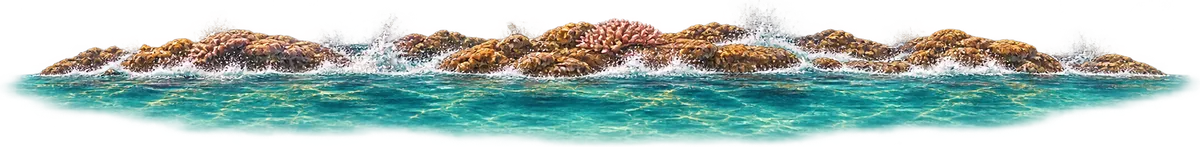
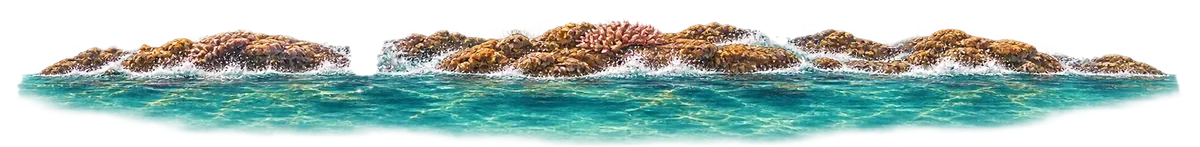
Проба «Штурман»: без видео-бурунов, стёрты застывшие брызги, настоящий лабиринт (3 пути, 2 перемычки, 6 тупиков, сплошные стенки), ускорена отрисовка
Claude-Session: https://claude.ai/code/session_01VuMVZraN9pECkX9mC81Yi9

diff --git a/helm.html b/helm.html
@@ -190,19 +190,20 @@ for(const k in SPR){const im=new Image();im.onload=()=>Object.assign(SPR[k],soft
 
 /* уровень: сплошное поле рифов, через него идут три фарватера (западный — длинный, средний — с узостью, восточный — выходит в средний) и два тупика */
 const CH=[
-  {w:18,p:[[0,-20],[-40,120],[-120,220],[-110,360],[-180,480],[-160,620],[-90,740],[-110,880],[-40,1070]]},          // западный путь
-  {w:18,p:[[0,-20],[50,130],[130,230],[120,380],[40,470],[60,600],[150,700],[110,850],[10,930],[-40,1070]],narrow:[430,505,13]}, // восточный путь с узостью
-  {w:16,p:[[-110,360],[-30,420],[40,470]]},                       // перемычка между путями
-  {w:17,p:[[-40,120],[-200,160],[-300,230]]},                     // тупики, похожие на короткий путь
-  {w:17,p:[[130,230],[260,300],[320,420]]},
-  {w:17,p:[[-160,620],[-300,700]]},
-  {w:16,p:[[60,600],[-30,650]]},
-  {w:17,p:[[150,700],[280,790],[300,900]]},
-  {w:16,p:[[-90,740],[10,800]]},
+  {w:16,p:[[0,-20],[-50,100],[-170,190],[-260,320],[-250,470],[-300,600],[-230,740],[-150,860],[-70,980],[-40,1070]],narrow:[455,525,12.5]},   // западный путь
+  {w:16,p:[[0,-20],[30,120],[0,250],[-70,360],[-40,500],[30,620],[0,760],[-60,880],[-40,1070]],narrow:[700,780,12.5]},                       // средний путь
+  {w:16,p:[[30,120],[140,200],[250,330],[300,480],[220,620],[260,760],[180,880],[60,960],[-40,1070]],narrow:[465,535,12.5]},                  // восточный путь
+  {w:16,p:[[-70,360],[-160,420],[-250,470]]},          // перемычки между путями
+  {w:16,p:[[30,620],[130,600],[220,620]]},
+  {w:16,p:[[-170,190],[-320,170],[-400,230]]},         // тупики
+  {w:16,p:[[0,250],[90,300],[130,400]]},
+  {w:16,p:[[-300,600],[-420,640]]},
+  {w:16,p:[[260,760],[400,800],[440,900]]},
+  {w:16,p:[[-150,860],[-260,930],[-330,1000]]},
+  {w:16,p:[[250,330],[380,300],[450,360]]},
 ];
-const CHECK=[{x:50,z:470,r:28,t:'Прошли узость!'},{x:-40,z:1000,r:40,t:'Устье близко!'},
-  {x:-300,z:230,r:30,t:'Тупик! Разворачивайся.',bad:1},{x:320,z:420,r:30,t:'Тупик! Разворачивайся.',bad:1},{x:-300,z:700,r:30,t:'Тупик! Разворачивайся.',bad:1},
-  {x:-30,z:650,r:26,t:'Тупик! Разворачивайся.',bad:1},{x:300,z:900,r:30,t:'Тупик! Разворачивайся.',bad:1},{x:10,z:800,r:26,t:'Тупик! Разворачивайся.',bad:1}];
+const CHECK=[{x:-255,z:490,r:26,t:'Прошли узость!'},{x:5,z:740,r:26,t:'Прошли узость!'},{x:295,z:500,r:26,t:'Прошли узость!'},{x:-40,z:1010,r:40,t:'Устье близко!'},
+  ...[[-400,230],[130,400],[-420,640],[440,900],[-330,1000],[450,360]].map(([x,z])=>({x,z,r:28,t:'Тупик! Разворачивайся.',bad:1}))];
 function segDist(x,z,a,b){const dx=b[0]-a[0],dz=b[1]-a[1],L=dx*dx+dz*dz;let t=((x-a[0])*dx+(z-a[1])*dz)/L;t=Math.max(0,Math.min(1,t));return Math.hypot(x-a[0]-t*dx,z-a[1]-t*dz);}
 function chanClear(x,z){ // сколько метров от точки до края ближайшего фарватера (минус — внутри)
   let m=1e9;for(const c of CH){let hw=c.w;if(c.narrow&&z>c.narrow[0]&&z<c.narrow[1])hw=c.narrow[2];
@@ -220,12 +221,24 @@ function reset(){
     let size=Math.min(rnd(82,118),room*2/.86*.98); if(size<28)continue;
     let type=TYPES[Math.floor(Math.random()*TYPES.length)];
     if(size<45&&type!=='shoal')type='reef-heads';
-    if(room<45&&size>=40&&gz>0&&Math.random()<.1)type='reef-break'; // живой бурун — изредка у самого фарватера, чтобы видеть его вблизи
     obs.push(mkObs(type,x,z,size));
   }
-  st={t:0,pz:0,px:0,h:0,w:0,hp:3,inv:0,obs,drag:null,done:false,shake:0,seen:{},fog:new Uint8Array(60*80)};
+  // второй проход: каждая точка вне фарватеров должна быть закрыта рифом — без дыр в стенках
+  for(let gz=-280;gz<=LEN+10;gz+=16)for(let gx=-500;gx<=540;gx+=16){
+    const x=gx+rnd(-3,3), z=gz+rnd(-3,3); if(z>LEN-10&&Math.abs(x-GOALX)<160)continue;
+    const room=chanClear(x,z); if(room<7||room>55)continue; // закрываем только стенки у фарватеров, глубь рифа не нужна
+    let cov=false;for(const o of obs){if(Math.abs(o.x-x)>o.cw/2+2||Math.abs(o.z-z)>o.d/2+2)continue;if(inShape(o,x,z)){cov=true;break;}}
+    if(cov)continue;
+    const size=Math.max(18,Math.min(rnd(40,60),room*2/.86*.98));
+    obs.push(mkObs(Math.random()<.7?'reef-heads':Math.random()<.5?'shoal':'cay',x,z,size));
+  }
+  const grid=new Map();for(const o of obs){const k=Math.floor(o.x/100)+','+Math.floor(o.z/100);if(!grid.has(k))grid.set(k,[]);grid.get(k).push(o);}
+  st={t:0,pz:0,px:0,h:0,w:0,hp:3,inv:0,obs,grid,drag:null,done:false,shake:0,seen:{},fog:new Uint8Array(60*80)};
   $('hp').textContent='❤❤❤'; tip('Впереди лабиринт рифов. Ищи проход — карта дорисовывается по ходу. Красный флажок — устье реки.',6500);
 }
+/* быстрый поиск рифов рядом с точкой (сетка 100 м) */
+function near(x,z,r){const out=[];if(!st||!st.grid)return out;const i0=Math.floor((x-r)/100),i1=Math.floor((x+r)/100),j0=Math.floor((z-r)/100),j1=Math.floor((z+r)/100);
+  for(let i=i0;i<=i1;i++)for(let j=j0;j<=j1;j++){const a=st.grid.get(i+','+j);if(a)for(const o of a)out.push(o);}return out;}
 /* мир → камера */
 function cam(x,z){const dx=x-st.px,dz=z-st.pz,c=Math.cos(st.h),sn=Math.sin(st.h);return {cx:dx*c-dz*sn, cz:dz*c+dx*sn};}
 
@@ -265,8 +278,7 @@ function drawSprite(o,sx,sy,k,z,t){
   if(z<260){ctx.save();ctx.globalAlpha*=.18*(1-haze*.7);ctx.translate(sx,sy);ctx.scale(fl,-.4);ctx.drawImage(im,fx,fy,fw,fh*S.wl,-aw/2,-H*S.wl,aw,H*S.wl);ctx.restore();}
   // сам предмет с дымкой по расстоянию
   ctx.save();ctx.globalAlpha*=nearA;ctx.translate(sx,0);ctx.scale(fl,1);
-  if(haze>.05){ctx.drawImage(S.haze,fx,fy,fw,fh,-aw/2,top,aw,H);ctx.globalAlpha*=(1-haze);}
-  ctx.drawImage(im,fx,fy,fw,fh,-aw/2,top,aw,H);ctx.restore();
+  ctx.drawImage(haze>.45?S.haze:im,fx,fy,fw,fh,-aw/2,top,aw,H); // одна отрисовка: вдали — копия в дымкеctx.restore();
   // плеск по краю
   if(z<300)for(let i=0;i<6;i++){const ph=t*2.1+o.seed+i*1.9, xx=sx+(i/5-.5)*aw*.75+Math.sin(ph)*aw*.02;
     ctx.fillStyle=`rgba(255,255,255,${(.18+.2*Math.sin(ph*1.3))*(1-haze)})`;ctx.beginPath();ctx.ellipse(xx,sy+H*.015,aw*.05,Math.max(1,H*.018),0,0,TAU);ctx.fill();}
@@ -321,7 +333,7 @@ function drawMap(){
   // материк слева (берег Австралии)
   const cxL=X(-470);if(cxL>-40){mc.fillStyle='#c9ad78';mc.beginPath();mc.moveTo(-5,-5);for(let z=st.pz+700;z>st.pz-200;z-=20){mc.lineTo(cxL+Math.sin(z*.02)*8,Y(z));}mc.lineTo(-5,H+5);mc.fill();
     mc.strokeStyle='#6b4a2a';mc.lineWidth=1.5;mc.stroke();}
-  for(const o of st.obs){if(!o.rev)continue;const x=X(o.x),y=Y(o.z);if(y<-40||y>H+40||x<-60||x>W+60)continue;
+  for(const o of near(st.px,st.pz+150,420)){if(!o.rev)continue;const x=X(o.x),y=Y(o.z);if(y<-40||y>H+40||x<-60||x>W+60)continue;
     const p=shape(o);mc.beginPath();p.forEach(([a,b],i)=>{const px=x+a*sc,py=y-b*sc;i?mc.lineTo(px,py):mc.moveTo(px,py);});mc.closePath();
     if(o.type==='shoal'){mc.setLineDash([3,3]);mc.strokeStyle='#5a7f86';mc.lineWidth=1.3;mc.stroke();mc.setLineDash([]);mc.fillStyle='rgba(120,170,170,.18)';mc.fill();}
     else if(o.type.startsWith('cay')){mc.fillStyle=o.type==='cay'?'#e3cf98':'#9bb27a';mc.fill();mc.strokeStyle='#6b4a2a';mc.lineWidth=1.2;mc.stroke();
@@ -376,12 +388,12 @@ function step(dt){
   if(st.px<-500||st.px>540||st.pz<-280){st.px=Math.max(-500,Math.min(540,st.px));st.pz=Math.max(-280,st.pz);if(st.t%3<dt)tip('Дальше внешний риф и открытый океан — нам к реке!',2500);}
   if(st.inv>0)st.inv-=dt; if(st.shake>0)st.shake-=dt;
   crewStep(dt);
-  for(const o of st.obs){
+  for(const o of near(st.px,st.pz,140)){
     if(Math.abs(o.x-st.px)>o.w/2+BOW+6||Math.abs(o.z-st.pz)>o.w/2+BOW+6)continue;
     if(shipHits(o)){ if(st.inv<=0){o.hit=1;hit(o);} else { const a=Math.atan2(st.px-o.x,st.pz-o.z);st.px+=Math.sin(a)*1.5;st.pz+=Math.cos(a)*1.5; } }
   }
   // разведка: всё в радиусе видимости с марса попадает на карту
-  const SEE=150;for(const o of st.obs)if(!o.rev&&Math.hypot(o.x-st.px,o.z-st.pz)<SEE+o.w/2)o.rev=1;
+  const SEE=150;for(const o of near(st.px,st.pz,SEE+70))if(!o.rev&&Math.hypot(o.x-st.px,o.z-st.pz)<SEE+o.w/2)o.rev=1;
   {const ci=Math.floor((st.px+450)/15),cj=Math.floor((st.pz+300)/15),R=10;for(let i=ci-R;i<=ci+R;i++)for(let j=cj-R;j<=cj+R;j++){if(i<0||j<0||i>=60||j>=80)continue;if((i-ci)**2+(j-cj)**2<=R*R)st.fog[j*60+i]=1;}}
   for(const c of CHECK){if(!st.seen[c.t+c.x]&&Math.hypot(c.x-st.px,c.z-st.pz)<c.r){st.seen[c.t+c.x]=1;toast(c.t,c.bad?'#ffd0c8':'#bff5c8');}}
   $('bar').firstChild.style.width=Math.min(100,Math.max(0,st.pz/GZ*100))+'%';
@@ -423,7 +435,7 @@ $('snd').onclick=e=>{e.stopPropagation();muted=!muted;$('snd').textContent=muted
 /* прибой: громче и с той стороны, где рифы ближе */
 function surfUpdate(){
   if(!SURF||!st)return;let I=0,P=0;
-  for(const o of st.obs){const dx=o.x-st.px,dz=o.z-st.pz;if(Math.abs(dx)>230||Math.abs(dz)>230)continue;
+  for(const o of near(st.px,st.pz,230)){const dx=o.x-st.px,dz=o.z-st.pz;if(Math.abs(dx)>230||Math.abs(dz)>230)continue;
     const d=Math.max(0,Math.hypot(dx,dz)-Math.max(o.cw,o.d)/2);if(d>220)continue;const w=(1-d/220)**2*(o.type==='reef-break'?2:1);
     const {cx,cz}=cam(o.x,o.z);I+=w;P+=w*Math.sin(Math.atan2(cx,cz));}
   const g=Math.min(.95,I*.55);SURF.gain.setTargetAtTime(muted?0:g,AC.currentTime,.3);
@@ -448,21 +460,21 @@ function crewStep(dt){
   const t=st.t, c=Math.cos(st.h), s=Math.sin(st.h);
   // лотовый: глубина по расстоянию от носа до ближайшего рифа
   const bx=st.px+s*BOW, bz=st.pz+c*BOW; let clr=1e9;
-  for(const o of st.obs){const dx=o.x-bx,dz=o.z-bz;if(Math.abs(dx)>140||Math.abs(dz)>140)continue;
+  for(const o of near(bx,bz,150)){const dx=o.x-bx,dz=o.z-bz;if(Math.abs(dx)>140||Math.abs(dz)>140)continue;
     const fwd=dx*s+dz*c, side=Math.abs(dx*c-dz*s), r=Math.max(o.cw,o.d)/2; if(fwd<-r)continue; // только то, что впереди по курсу
     if(side-r>SHIP_HALF+8)continue; clr=Math.min(clr,Math.max(0,fwd-r));}
   const lvl=clr>90?10:clr>60?7:clr>38?5:clr>18?3:2;
   if((lvl!==crew.leadLvl&&t-crew.leadT>2.5)||t-crew.leadT>9){crew.leadLvl=lvl;crew.leadT=t;say('lead',DEPTH[lvl],lvl<=3?2:1);}
   // впередсмотрящий: новые рифы впереди и по бортам
   if(t-crew.lookT>4.5){
-    let best=null;for(const o of st.obs){if(o.called)continue;const v=cam(o.x,o.z);if(v.cz<25||v.cz>170)continue;const a=Math.atan2(v.cx,v.cz);if(Math.abs(v.cx)>Math.max(o.cw,o.d)/2+14)continue; // кричит только о том, что на пути
+    let best=null;for(const o of near(st.px,st.pz,200)){if(o.called)continue;const v=cam(o.x,o.z);if(v.cz<25||v.cz>170)continue;const a=Math.atan2(v.cx,v.cz);if(Math.abs(v.cx)>Math.max(o.cw,o.d)/2+14)continue; // кричит только о том, что на пути
       
       if(!best||v.cz<best.cz)best={o,a,cz:v.cz};}
-    if(best){for(const o of st.obs)if(Math.hypot(o.x-best.o.x,o.z-best.o.z)<70)o.called=1;crew.lookT=t;crew.warned=true;crew.clearT=t;
+    if(best){for(const o of near(best.o.x,best.o.z,80))if(Math.hypot(o.x-best.o.x,o.z-best.o.z)<70)o.called=1;crew.lookT=t;crew.warned=true;crew.clearT=t;
       say('look',Math.abs(best.a)<.2?'Буруны прямо по курсу!':best.a>0?'Риф справа по борту!':'Риф слева по борту!',3);}
   }
   // «чистая вода»: впереди долго ничего нет после предупреждения
-  if(crew.warned&&t-crew.clearT>7){let any=false;for(const o of st.obs){const v=cam(o.x,o.z);if(v.cz>10&&v.cz<150&&Math.abs(Math.atan2(v.cx,v.cz))<.35){any=true;break;}}
+  if(crew.warned&&t-crew.clearT>7){let any=false;for(const o of near(st.px,st.pz,160)){const v=cam(o.x,o.z);if(v.cz>10&&v.cz<150&&Math.abs(Math.atan2(v.cx,v.cz))<.35){any=true;break;}}
     if(!any){crew.warned=false;crew.lookT=t;say('look','Впереди чистая вода!',2);}else crew.clearT=t-4;}
   if(!crew.river&&Math.hypot(GOALX-st.px,GZ-st.pz)<420){const v=cam(GOALX,GZ);if(Math.abs(Math.atan2(v.cx,v.cz))<.6&&v.cz>0){crew.river=true;crew.lookT=t;say('look','Вижу устье реки!',3);}}
 }
@@ -497,25 +509,25 @@ function render(T){
     ctx.translate(768+shx*.3,HOR+shy*.3);ctx.rotate(-roll*.6*Math.PI/180);ctx.translate(-768,-HOR);
     drawBack(-bob*.4);
     drawGoal(-bob*.4);
-    const vis=s.obs.map(o=>({o,...cam(o.x,o.z)})).filter(v=>v.cz>4&&v.cz<650).sort((a,b)=>b.cz-a.cz);
+    const vis=near(s.px,s.pz,520).map(o=>({o,...cam(o.x,o.z)})).filter(v=>v.cz>4&&v.cz<500&&Math.abs(v.cx)<v.cz*1.1+v.o.w).sort((a,b)=>a.cz-b.cz).slice(0,110).reverse();
     // мелководье над рифами: светлая бирюза на воде по контуру рифа — по ней штурман и видит, где мель, а где глубокий фарватер
     ctx.save();
-    for(const v of vis){const o=v.o;if(v.cz>600)continue;const p=shape(o);let ok=true;const pts=[];
+    for(const v of vis){const o=v.o;if(v.cz>320)continue;const p=shape(o);let ok=true;const pts=[];
       for(const [a,b] of p){const w=cam(o.x+a*1.12,o.z+b*1.12);if(w.cz<2){ok=false;break;}pts.push([768+w.cx/w.cz*F,hor+CAMH*F/w.cz]);}
-      if(!ok)continue;const fade=Math.min(1,(600-v.cz)/200);
+      if(!ok)continue;const fade=Math.min(1,(320-v.cz)/120);
       ctx.fillStyle=o.type==='shoal'?`rgba(150,235,215,${.28*fade})`:`rgba(120,225,210,${.16*fade})`;
       ctx.beginPath();pts.forEach(([x,y],i)=>i?ctx.lineTo(x,y):ctx.moveTo(x,y));ctx.closePath();ctx.fill();}
     ctx.restore();
     for(const v of vis){const o=v.o,z=v.cz,k=F/z,sx=768+v.cx/z*F,sy=hor+CAMH*F/z,sw=o.w*k;
       if(sx<-sw||sx>1536+sw)continue;
-      ctx.globalAlpha=Math.min(1,(650-z)/150);
+      ctx.globalAlpha=Math.min(1,(500-z)/130);
       if(o.type==='shoal')drawShoal(o,sx,sy,k,CAMH/z);else drawSprite(o,sx,sy,k,z,T);
       ctx.globalAlpha=1;}
     // пена от хода корабля вдоль бортов
     for(let i=0;i<26;i++){const ph=((T*SPEED*.9+i*7.3)%60)/60, side=i%2?1:-1, z=16-ph*14;
       const x=768+side*(SHIP_HALF+2+ph*2)/Math.max(2,z)*F*.55, y=hor+CAMH*F/Math.max(3,z+6);
       if(x<-50||x>1590)continue;ctx.fillStyle=`rgba(255,255,255,${.35*(1-ph)})`;ctx.beginPath();ctx.ellipse(x,y,40*(1-ph)+10,6*(1-ph)+2,0,0,TAU);ctx.fill();}
-    drawMap();
+    if(T-(window._mapT||0)>.1){window._mapT=T;drawMap();} // карта 10 раз в секунду
     surfUpdate();
   }
   deck.style.transform=`translate(${shx}px,${bob*.25+shy}px) rotate(${roll}deg)`;
